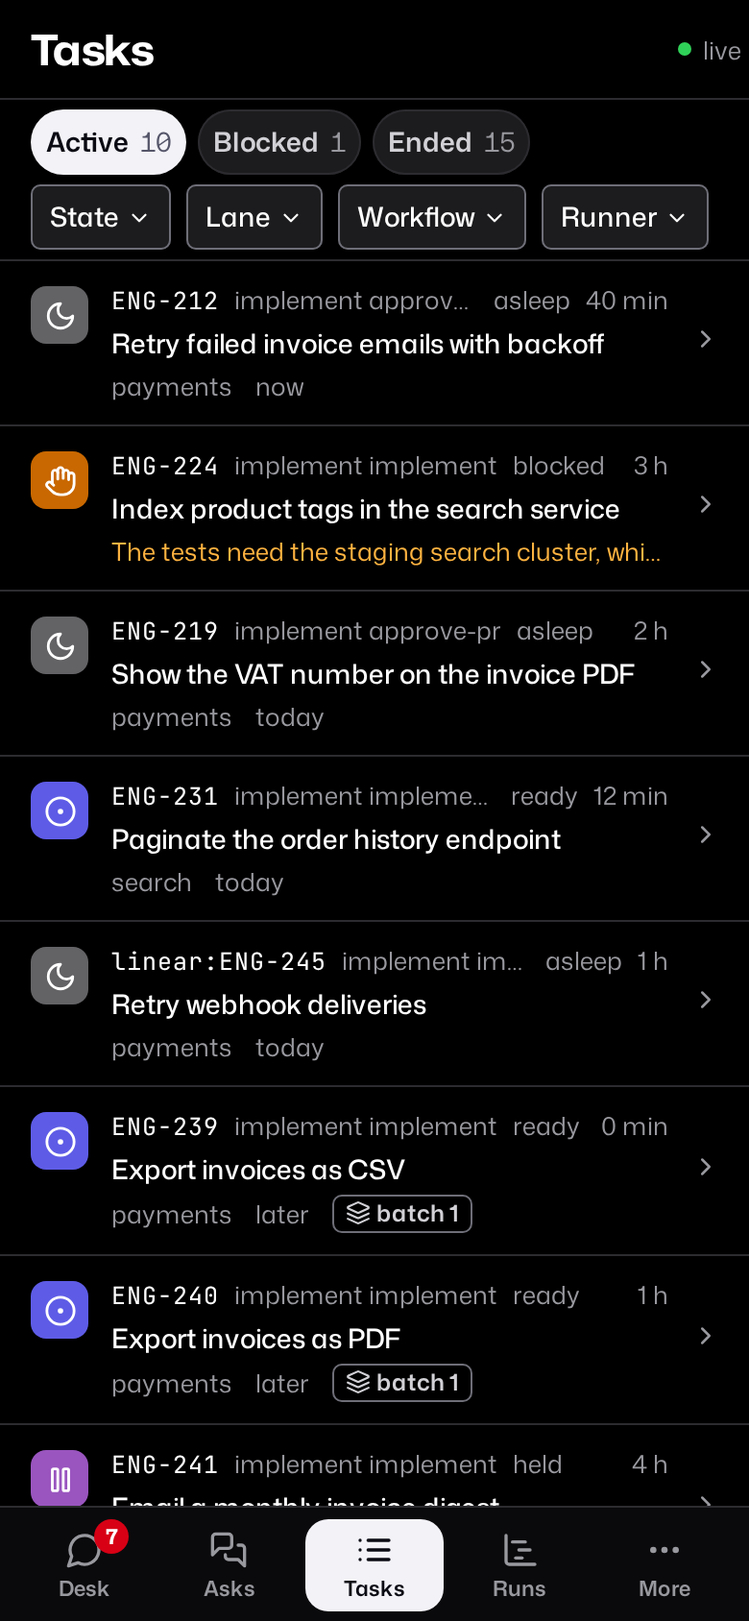
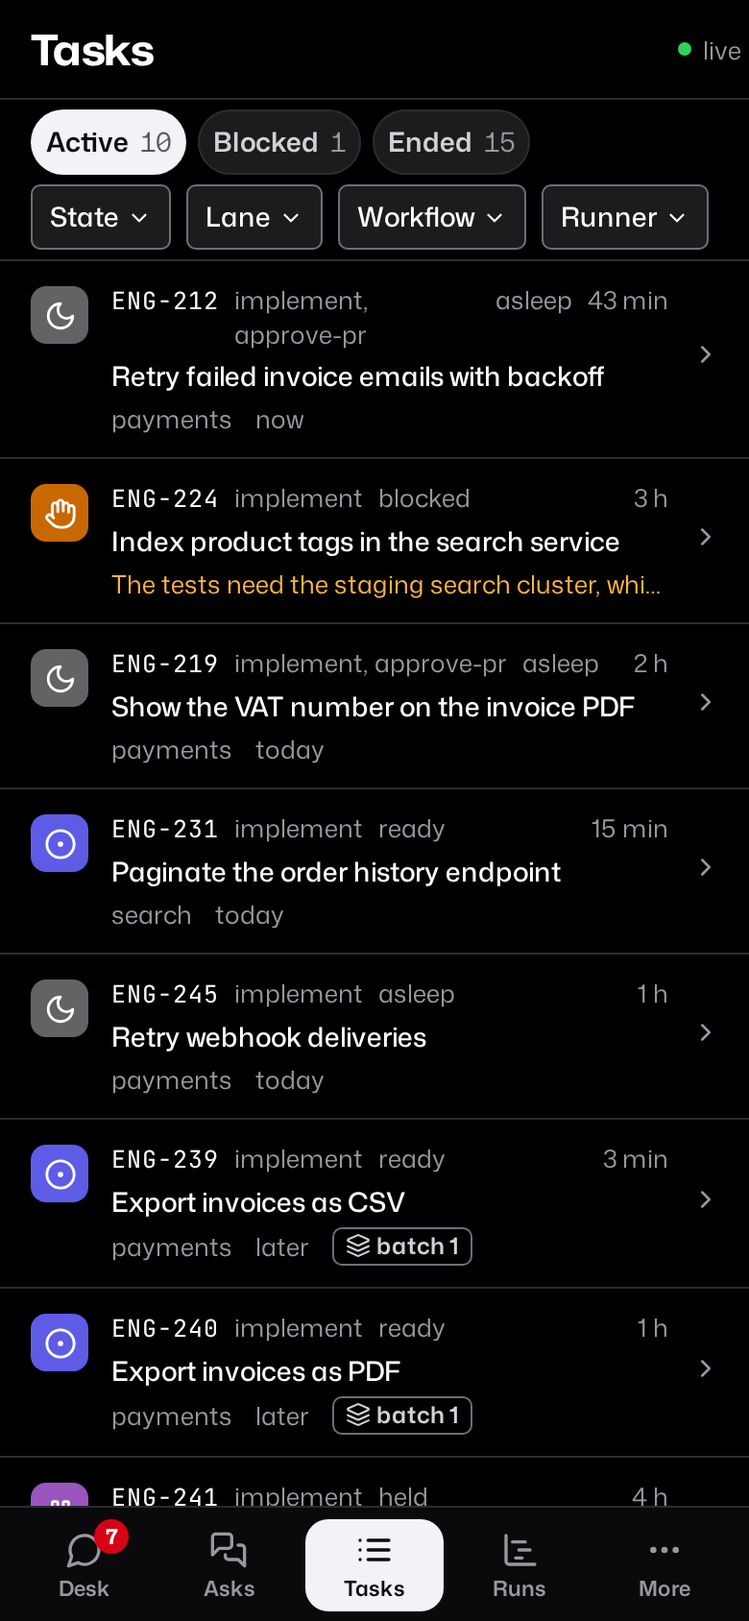
Keep the phone's ask header, capsule, rows and small links usable
On a phone, the ask detail's header now shrinks to the question over
its task key, step and revision once the options scroll away, as
DESIGN.md asks. Offline, the Answer capsule leaves the primary look and
reads "Read 7 asks, offline". Task rows name the step once when it is
the workflow's name and wrap a long step instead of cutting it. The ask
and batch context lines, task keys in rows and another runner's chevron
take a 44 px hit area on coarse pointers.

The design review's m3 "0 min ago" was already fixed on main.

diff --git a/crates/priory-core/web/app.js b/crates/priory-core/web/app.js
@@ -1,6 +1,6 @@
 // Priory's web view (DESIGN.md): the frame, the Desk and the Asks, with answering through the CLI's verbs.
 // Agent text is untrusted: every value goes through `html`, which escapes it.
-import { ARM_MS, ASK_VIEWS, answeredBy, askGroups, openAsksOf, routedMark, routedNote, runnerOf, seenAgo, sentNote, shownGroups, snoozeShortcut, snoozed, stillArmed, submitted, takesText, writeNote } from "./asks.js";
+import { ARM_MS, ASK_VIEWS, answeredBy, askGroups, openAsksOf, routedMark, routedNote, runnerOf, seenAgo, sentNote, shownGroups, shrunkHead, snoozeShortcut, snoozed, stillArmed, submitted, takesText, writeNote } from "./asks.js";
 import { SPLITS, attentionView, costTiles, dayBars, money, scoreTable, splitTable } from "./costs.js";
 import { addBody, addOutcome } from "./add.js";
 import { linked } from "./links.js";
@@ -11,8 +11,8 @@ import { KINDS, edgeStyle, historyRows, lockBadge, nodeShape, timeline, ungatedP
 import { emptyDetail, eventWords, handled, neverOwned, sinceWords, routeAction, unheardActs, unheardNote, unroutedNote } from "./inbox.js";
 import { editBody, issueName, laneLayout, momentWords, stages, successors } from "./batches.js";
 import { EARLIER_CAP, KEYS, keyboardSession, paintRows, sayLine, screenRows, screenWatch } from "./terminal.js";
-import { actionNote, batchParts, countWords, dueParts, memoryNote, memoryTag, mergeSince, nextLink, onRoom, progressView, rowAction, sectionInView, sinceGroups } from "./desk.js";
-import { TASK_VIEWS, elsewhere, filtered, olderPart, remoteActs, remoteId, remoteSent, taskFacets, taskLabel, taskViews, triageWords } from "./tasks.js";
+import { actionNote, batchParts, capsuleWords, countWords, dueParts, memoryNote, memoryTag, mergeSince, nextLink, onRoom, progressView, rowAction, sectionInView, sinceGroups } from "./desk.js";
+import { TASK_VIEWS, elsewhere, filtered, olderPart, remoteActs, remoteId, remoteSent, taskFacets, taskLabel, taskViews, triageWords, workStep } from "./tasks.js";
 import { RUN_FACETS, RUN_VIEWS, duration, runState, runViews, tokenText } from "./runs.js";
 import { PANELS, backTo, pageTitle } from "./pages.js";
 import { QUEUE_VIEWS, moveOptions, queueBands, waitReason } from "./queue.js";
@@ -579,7 +579,7 @@ function asleepRow(task) {
   const waits = (task.waits || []).map((wait) => `${wait.kind} ${wait.on}, ${age(wait.since)}`).join("; ");
   return html`<a class="row" href="/tasks/${task.id}">
     ${tile("asleep")}
-    <span class="l1"><span class="mono">${taskLabel(task.key)}</span><span>${task.workflow} ${task.step}</span><span>asleep</span>${prsTag(task)}<span class="age">${timeTag(task.since)}</span></span>
+    <span class="l1"><span class="mono">${taskLabel(task.key)}</span><span>${workStep(task)}</span><span>asleep</span>${prsTag(task)}<span class="age">${timeTag(task.since)}</span></span>
     <span class="l2 r">${task.title || task.lane || ""}</span>
     <span class="l3"><span>${waits ? `Waits on ${waits}` : "Waits on an ask"}</span></span>
     <span class="chev">${icon("chevron-right", "s15")}</span></a>`;
@@ -595,7 +595,7 @@ const prsTag = (task, id) => {
 function taskRow(task) {
   return html`<div class="row">
     ${tile(task.state)}
-    <span class="l1"><span class="mono">${taskLabel(task.key)}</span><span>${task.workflow} ${task.step}</span><span>${task.state}</span>${prsTag(task)}<span class="age">${timeTag(task.since)}</span></span>
+    <span class="l1"><span class="mono">${taskLabel(task.key)}</span><span>${workStep(task)}</span><span>${task.state}</span>${prsTag(task)}<span class="age">${timeTag(task.since)}</span></span>
     <span class="l2 r ${task.reason ? `t-${role(task.state)}` : ""}">${autolinked(task.reason || task.tldr || task.title || task.lane || "", task.repo)}</span></div>`;
 }
 
@@ -855,7 +855,8 @@ const addButton = (kind) => html`<button class="${kind}" data-action="add-open" 
 // On a phone the Add button sits beside the capsule, or alone where the capsule hides.
 function capsule(model) {
   const n = model.open.length;
-  const answer = n && deskView() === "needs" ? html`<a class="capsule" href="/asks/${model.first.id}">${icon("ask", "s20")}Answer ${n} ${n === 1 ? "ask" : "asks"}</a>` : "";
+  const words = capsuleWords(n, Boolean(state.failed));
+  const answer = n && deskView() === "needs" ? html`<a class="capsule ${words.off ? "off" : ""}" href="/asks/${model.first.id}">${icon(words.icon, "s20")}${words.text}</a>` : "";
   return html`<div class="fade"></div><div class="dock">${answer}${addButton("fab")}</div>`;
 }
 
@@ -965,7 +966,7 @@ function taskListRow(task) {
   if (elsewhere(task, ago)) return remoteListRow(task);
   const line3 = reasonShown(task) ? html`<span class="t-${role(task.state)}">${task.reason}</span>${batchTag(task)}` : html`<span>${task.lane || ""}</span><span>${task.band || ""}</span>${batchTag(task)}`;
   return html`<div class="row" data-href="/tasks/${task.id}">${tile(task.state)}
-    <span class="l1"><a class="mono" href="/tasks/${task.id}" title="task ${task.id}">${taskLabel(task.key)}</a><span>${task.workflow} ${task.step}</span><span>${task.state}</span>${prsTag(task)}<span class="age">${timeTag(task.since)}</span></span>
+    <span class="l1"><a class="mono" href="/tasks/${task.id}" title="task ${task.id}">${taskLabel(task.key)}</a><span>${workStep(task)}</span><span>${task.state}</span>${prsTag(task)}<span class="age">${timeTag(task.since)}</span></span>
     <span class="l2 r">${task.title || task.tldr || ""}</span><span class="l3">${line3}</span><span class="chev">${icon("chevron-right", "s15")}</span></div>`;
 }
 
@@ -1111,8 +1112,9 @@ function askDetail(id, wide) {
   const nav = (to, label, name) => (to
     ? html`<a class="iconbtn" href="/asks/${to.id}" aria-label="${label}">${icon(name, "s20")}</a>`
     : html`<span class="iconbtn" aria-disabled="true" aria-label="${label}">${icon(name, "s20")}</span>`);
+  const shrunk = shrunkHead(ask);
   const header = html`<div class="ahead">
-    ${wide ? html`<span class="ctx">${tile("ask", "sm")}<span>ask <span class="mono">#${ask.id}</span></span><span>revision ${ask.revision}</span><span>${timeTag(ask.since)}</span></span>` : html`<a class="back" href="${back[0]}">${icon("chevron-left", "s22")}${back[1]}</a>`}
+    ${wide ? html`<span class="ctx">${tile("ask", "sm")}<span>ask <span class="mono">#${ask.id}</span></span><span>revision ${ask.revision}</span><span>${timeTag(ask.since)}</span></span>` : html`<a class="back" href="${back[0]}" aria-label="${back[1]}">${icon("chevron-left", "s22")}<span>${back[1]}</span></a><span class="aq" aria-hidden="true"><b>${shrunk.question}</b><small>${shrunk.place}</small></span>`}
     ${at >= 0 ? html`<span class="pos num">${at + 1}<span>/${open.length}</span></span>` : html`<span class="sp"></span>`}
     ${nav(open[at - 1], "Previous ask", "chevron-up")}${nav(open[at + 1], "Next ask", "chevron-down")}
     ${wide ? html`<a class="iconbtn" href="${back[0]}" aria-label="Close">${icon("x", "s20")}</a>` : ""}</div>`;
@@ -1478,7 +1480,7 @@ function taskPage(id) {
     <textarea id="say" name="text" rows="2" placeholder="Say to the agent">${state.sayDrafts.get(task.id) || ""}</textarea><button class="btn primary" ${said}>Say</button></form>`;
   const sections = taskSections(task).map(([, , section]) => section);
   return html`${back}<div class="scroll"><div class="ask task">
-    <p class="ctx">${tile(task.state, "sm")}<span class="mono">${taskLabel(task.key)}</span><span>${task.state}</span><span>${task.workflow} ${task.step}</span><span>${task.lane || ""}</span><span>${task.band || ""}</span>${task.batch == null ? "" : html`<a href="/batches/${task.batch}">batch ${task.batch}</a>`}</p>
+    <p class="ctx">${tile(task.state, "sm")}<span class="mono">${taskLabel(task.key)}</span><span>${task.state}</span><span>${workStep(task)}</span><span>${task.lane || ""}</span><span>${task.band || ""}</span>${task.batch == null ? "" : html`<a href="/batches/${task.batch}">batch ${task.batch}</a>`}</p>
     <h1 class="question">${autolinked(task.tldr || task.brief?.title || task.brief?.request?.split("\n")[0] || taskLabel(task.key), task.repo)}</h1>
     ${task.reason ? html`<p class="text t-${role(task.state)}">${autolinked(task.reason, task.repo)}</p>` : ""}
     ${taskAsks(task)}${taskActs(task.id, task.state)}${say}</div>${sections}${terminalSection(task)}</div>`;
@@ -2389,7 +2391,7 @@ function addedTask() {
   return html`<div class="added" role="status">
     <p class="line">Added. The task waits in the queue for its turn.</p>
     <div class="row">${tile(task.state)}
-      <span class="l1"><span class="mono">${taskLabel(task.key)}</span><span>${[task.workflow, task.step !== task.workflow && task.step].filter(Boolean).join(", ")}</span><span class="age">${task.state}</span></span>
+      <span class="l1"><span class="mono">${taskLabel(task.key)}</span><span>${workStep(task)}</span><span class="age">${task.state}</span></span>
       <span class="l2">${task.brief?.request || task.brief?.title || (id === null ? "No task took this key yet. It shows on the Desk once one does." : "")}</span>
       <span class="l3">${[task.band, task.lane].filter(Boolean).join(", ")}</span></div>
     <div class="acts"><button class="btn secondary" data-action="add-another">Add another</button><button class="btn primary" data-action="add-done">Close</button></div></div>`;
@@ -3040,7 +3042,11 @@ function watchSections(app) {
     const options = scroller.querySelector(".opts");
     const bar = app.querySelector(".abar");
     if (!options || !bar) continue;
-    track(new IntersectionObserver(([entry]) => { bar.hidden = entry.isIntersecting; }, { root: scroller })).observe(options);
+    const head = app.querySelector(".ahead");
+    track(new IntersectionObserver(([entry]) => {
+      bar.hidden = entry.isIntersecting;
+      head?.classList.toggle("shrunk", !entry.isIntersecting);
+    }, { root: scroller })).observe(options);
   }
 }
 

diff --git a/crates/priory-core/web/app.css b/crates/priory-core/web/app.css
@@ -114,11 +114,13 @@ a.facet[aria-current="true"] { background: var(--action-soft); color: var(--acti
 .row:active { background: var(--raised); }
 .row[aria-current="true"] { background: var(--action-soft); box-shadow: inset 3px 0 var(--action); }
 .row .tile { grid-row: 1 / 4; margin-top: 2px; }
-.row .l1 { display: flex; gap: 8px; align-items: baseline; font: 400 var(--type-caption) var(--font-ui); color: var(--text-3); min-width: 0; }
+.row .l1 { display: flex; gap: 2px 8px; align-items: baseline; font: 400 var(--type-caption) var(--font-ui); color: var(--text-3); min-width: 0; }
 .row .l1 .mono { color: var(--text); }
 .row .l1 .tag.routed { min-width: 0; overflow: hidden; text-overflow: ellipsis; }
 .row .l1 .tag.runner, .row .l1:has(.tag.runner) > .mono { flex: none; }
-.row .l1:has(.tag.runner) > span:nth-child(2) { min-width: 5ch; overflow: hidden; text-overflow: ellipsis; white-space: nowrap; }
+/* A step never truncates: its words wrap in place, and a row with tags wraps its tags first. */
+.row .l1:has(.tag) { flex-wrap: wrap; }
+.row .l1:has(.tag) > span:nth-child(2) { flex: none; }
 .row .l1 .age { margin-left: auto; white-space: nowrap; }
 .row .l2 { grid-column: 2; font: 500 var(--type-body) var(--font-ui); display: -webkit-box; -webkit-line-clamp: 2; -webkit-box-orient: vertical; overflow: hidden; overflow-wrap: anywhere; }
 .row .l2.r { font-size: 14px; }
@@ -155,6 +157,7 @@ a.facet[aria-current="true"] { background: var(--action-soft); color: var(--acti
 
 /* Answer capsule */
 .capsule { position: absolute; left: var(--gutter); right: var(--gutter); bottom: var(--capsule-gap); height: var(--capsule); border-radius: var(--radius-full); background: var(--action); color: var(--on-action); display: flex; align-items: center; justify-content: center; gap: 8px; font: 600 var(--type-option) var(--font-ui); box-shadow: var(--shadow-float); z-index: 2; }
+.capsule.off { background: var(--surface); color: var(--warn-text); box-shadow: var(--shadow-float), inset 0 0 0 1px var(--control-line); }
 .fade { position: absolute; left: 0; right: 0; bottom: 0; height: var(--desk-end); background: linear-gradient(to bottom, transparent, var(--bar) 45%); z-index: 1; pointer-events: none; }
 
 /* Ask: question, recommendation, options */
@@ -178,6 +181,14 @@ a.facet[aria-current="true"] { background: var(--action-soft); color: var(--acti
 .pos span { color: var(--text-3); font-weight: 500; }
 .ahead .iconbtn { width: 40px; color: var(--text-2); }
 .ahead .iconbtn[aria-disabled="true"] { color: var(--text-3); opacity: 0.5; }
+/* Once the options scroll away on a phone, the header shrinks to the question over its place. */
+.ahead .aq { display: none; flex: 1; min-width: 0; flex-direction: column; gap: 1px; }
+.ahead .aq b, .ahead .aq small { overflow: hidden; text-overflow: ellipsis; white-space: nowrap; }
+.ahead .aq b { font: 600 var(--type-body) var(--font-ui); }
+.ahead .aq small { font: 400 var(--type-caption) var(--font-ui); color: var(--text-3); }
+.ahead.shrunk .aq { display: flex; }
+.ahead.shrunk .back { padding-right: 4px; }
+.ahead.shrunk .back span, .ahead.shrunk .pos { display: none; }
 .ask { display: flex; flex-direction: column; gap: 14px; padding: 4px var(--gutter) 16px; }
 .taskasks { display: grid; gap: 8px; }
 .taskasks li { display: grid; grid-template-columns: auto minmax(0, 1fr) auto; gap: 10px; align-items: center; padding: 10px 12px; border: 1px solid var(--line); border-radius: var(--radius-md); font: 500 var(--type-small) var(--font-ui); overflow-wrap: anywhere; }
@@ -376,8 +387,8 @@ textarea { font: 400 16px/22px var(--font-ui); color: var(--text); background: v
 .opt[aria-disabled="true"]:not(.rec-opt):not(.chosen), .abar .btn.secondary[aria-disabled="true"] { color: var(--text-3); }
 .medium.no-drawer, .compact.no-drawer { display: flex; flex-direction: column; }
 @media (pointer: coarse) {
-  .views a, .jump a, .facet > summary, a.facet { position: relative; }
-  .views a::after, .jump a::after, .facet > summary::after, a.facet::after {
+  .views a, .jump a, .facet > summary, a.facet, a.ctx, .ctx a, .l1 a.mono, .remote .chev { position: relative; }
+  .views a::after, .jump a::after, .facet > summary::after, a.facet::after, a.ctx::after, .ctx a::after, .l1 a.mono::after, .remote .chev::after {
     content: ""; position: absolute;
     inset: calc(50% - var(--control) / 2) min(0px, calc(50% - var(--control) / 2));
   }
@@ -414,7 +425,7 @@ textarea { font: 400 16px/22px var(--font-ui); color: var(--text); background: v
 .row .l1 a.mono { color: var(--text); text-decoration: underline; text-underline-offset: 2px; }
 .row .acts-note { grid-column: 2; }
 .row.remote, .tbl tr.remote { cursor: pointer; }
-.remote .chev { background: none; border: 0; padding: 0; color: var(--text-3); cursor: pointer; }
+.remote .chev { min-width: 24px; min-height: 24px; display: inline-grid; place-items: center; background: none; border: 0; padding: 0; color: var(--text-3); cursor: pointer; }
 .tbl tr.remote .chev { vertical-align: -3px; }
 .row.remote .writeform { grid-column: 2; padding-left: 0; margin-top: var(--space-1); }
 .tbl tr.remote-acts td { border-top: 0; height: auto; padding-bottom: var(--space-3); white-space: normal; overflow: visible; cursor: default; }
@@ -629,7 +640,7 @@ textarea { font: 400 16px/22px var(--font-ui); color: var(--text); background: v
 .row .l1 a.mono { text-decoration: none; }
 .tbl td.mono a { color: inherit; text-decoration: none; }
 .row[data-href] .l1 > * { white-space: nowrap; flex: none; }
-.row[data-href] .l1 > span:nth-child(2) { flex: 0 1 auto; min-width: 0; overflow: hidden; text-overflow: ellipsis; }
+.row[data-href] .l1 > span:nth-child(2) { flex: 0 1 auto; min-width: 0; white-space: normal; }
 .row[data-href] .l3 > span { overflow: hidden; text-overflow: ellipsis; }
 .row .l3 .tag .ico, .tbl .tag .ico { margin-right: 3px; vertical-align: -2px; }
 .tbl .t3 { color: var(--text-3); }

diff --git a/crates/priory-core/web/asks.test.js b/crates/priory-core/web/asks.test.js
@@ -1,6 +1,6 @@
 import { test } from "node:test";
 import assert from "node:assert/strict";
-import { ASK_VIEWS, answeredBy, askGroups, routedMark, routedNote, runnerOf, submitted, seenAgo, sentNote, shownGroups, snoozeShortcut, stillArmed, takesText, openAsksOf, writeNote } from "./asks.js";
+import { ASK_VIEWS, answeredBy, askGroups, routedMark, routedNote, runnerOf, submitted, seenAgo, sentNote, shownGroups, snoozeShortcut, stillArmed, takesText, openAsksOf, writeNote, shrunkHead } from "./asks.js";
 
 const now = Date.parse("2026-11-20T12:00:00Z");
 const ask = (id, fields) => ({ id, state: "open", snoozed_until: null, ...fields });
@@ -163,4 +163,9 @@ test("a task page lists its task's open asks, snoozed ones too, oldest first", (
   ];
   assert.deepEqual(openAsksOf(asks, 7).map((ask) => ask.id), [3, 4]);
   assert.deepEqual(openAsksOf(asks, 9), []);
+});
+
+test("the shrunk header names the question over the task key, step and revision", () => {
+  assert.deepEqual(shrunkHead({ key: "linear:ENG-212", step: "approve-pr", revision: 2, title: "Open the pull request", question: "Open the pull request for ENG-212?" }), { question: "Open the pull request for ENG-212?", place: "ENG-212, approve-pr, revision 2" });
+  assert.deepEqual(shrunkHead({ key: null, step: "deploy", revision: 1, title: "Deploy", question: null }), { question: "Deploy", place: "deploy, revision 1" });
 });

diff --git a/crates/priory-core/web/desk.test.js b/crates/priory-core/web/desk.test.js
@@ -1,6 +1,6 @@
 import { test } from "node:test";
 import assert from "node:assert/strict";
-import { nextLink, onRoom, sinceGroups, mergeSince, progressView, sectionInView, dueText, rowAction, actionNote, batchParts, countWords, memoryNote, memoryTag } from "./desk.js";
+import { nextLink, onRoom, sinceGroups, mergeSince, progressView, sectionInView, dueText, rowAction, actionNote, batchParts, countWords, memoryNote, memoryTag, capsuleWords } from "./desk.js";
 
 const why = "work stopped and waits on a person";
 
@@ -151,4 +151,10 @@ test("the Desk's count line names every item Needs me counts besides the asks", 
   assert.equal(countWords({ oldest: null, stopped: 0, todos: 2, reports: 1, other: 0 }), "Also 2 to-dos and 1 report.");
   assert.equal(countWords({ oldest: null, stopped: 2, todos: 1, reports: 3, other: 1 }), "Also 2 stopped, 1 to-do, 3 reports and 1 waiting.");
   assert.equal(countWords({ ...none, oldest: null }), "");
+});
+
+test("the capsule answers while live, and only reads the asks while offline", () => {
+  assert.deepEqual(capsuleWords(7, false), { text: "Answer 7 asks", icon: "ask", off: false });
+  assert.deepEqual(capsuleWords(1, false), { text: "Answer 1 ask", icon: "ask", off: false });
+  assert.deepEqual(capsuleWords(7, true), { text: "Read 7 asks, offline", icon: "unplug", off: true });
 });

diff --git a/crates/priory-core/web/tasks.test.js b/crates/priory-core/web/tasks.test.js
@@ -1,6 +1,6 @@
 import { test } from "node:test";
 import assert from "node:assert/strict";
-import { TASK_FACETS, TASK_VIEWS, elsewhere, filtered, olderPart, remoteActs, remoteId, remoteSent, taskFacets, taskLabel, taskViews, triageWords } from "./tasks.js";
+import { TASK_FACETS, TASK_VIEWS, elsewhere, filtered, olderPart, remoteActs, remoteId, remoteSent, taskFacets, taskLabel, taskViews, triageWords, workStep } from "./tasks.js";
 
 // `/api/tasks` as the server sends it: in start order, ended tasks in it too.
 const tasks = [
@@ -93,4 +93,11 @@ test("a task is named by its key without its source", () => {
   assert.equal(taskLabel("cli:PRI-55"), "PRI-55");
   assert.equal(taskLabel("batch:2026-11-21-1"), "batch:2026-11-21-1");
   assert.equal(taskLabel(null), "");
+});
+
+test("a row names the step alone when it is the workflow's own name", () => {
+  assert.equal(workStep({ workflow: "implement", step: "implement" }), "implement");
+  assert.equal(workStep({ workflow: "implement", step: "approve-pr" }), "implement, approve-pr");
+  assert.equal(workStep({ workflow: "implement", step: null }), "implement");
+  assert.equal(workStep({ workflow: null, step: null }), "");
 });

diff --git a/crates/priory-core/web/asks.js b/crates/priory-core/web/asks.js
@@ -1,3 +1,5 @@
+import { taskLabel } from "./tasks.js";
+
 export const ASK_VIEWS = ["open", "snoozed", "answered", "all"];
 
 /** The groups of `askGroups` a saved view lists, in order. @param {string} view */
@@ -102,3 +104,9 @@ export function writeNote(status, body, ago, ask) {
   if (status === 504 || status === 0) return "The daemon may have applied this but did not confirm it. Check the ask's state before you send again.";
   return `Could not send: ${body?.error || `the server answered ${status}`}.`;
 }
+
+/** The ask detail's header once its options scroll away: the question, over the task key, step and revision. */
+export const shrunkHead = (ask) => ({
+  question: ask.question || ask.title,
+  place: [taskLabel(ask.key), ask.step, `revision ${ask.revision}`].filter(Boolean).join(", "),
+});

diff --git a/crates/priory-core/web/desk.js b/crates/priory-core/web/desk.js
@@ -140,3 +140,9 @@ export function countWords({ oldest, stopped, todos, reports, other }) {
   const also = rest.length > 1 ? `Also ${rest.slice(0, -1).join(", ")} and ${rest.at(-1)}.` : rest.length ? `Also ${rest[0]}.` : "";
   return [oldest && `Oldest waits ${oldest}.`, also].filter(Boolean).join(" ");
 }
+
+/** The Answer capsule's words for `n` open asks: offline it leaves the primary look and only opens the asks to read. */
+export function capsuleWords(n, offline) {
+  const asks = `${n} ${n === 1 ? "ask" : "asks"}`;
+  return offline ? { text: `Read ${asks}, offline`, icon: "unplug", off: true } : { text: `Answer ${asks}`, icon: "ask", off: false };
+}

diff --git a/adapters/herdr/mods/priory-runs/tasks.js b/adapters/herdr/mods/priory-runs/tasks.js
@@ -90,3 +90,6 @@ const TRIAGE_WORDS = { "nothing-to-do": "nothing to do", "persons-call": "your c
 
 /** A feedback item's class as the task page words it. */
 export const triageWords = (triage) => TRIAGE_WORDS[triage] || triage;
+
+/** A task's workflow and step as a row shows them: the step once when it is the workflow's name. @param {any} task */
+export const workStep = (task) => [task.workflow, task.step !== task.workflow && task.step].filter(Boolean).join(", ");

diff --git a/adapters/herdr/mods/priory-tasks/view.js b/adapters/herdr/mods/priory-tasks/view.js
@@ -90,3 +90,6 @@ const TRIAGE_WORDS = { "nothing-to-do": "nothing to do", "persons-call": "your c
 
 /** A feedback item's class as the task page words it. */
 export const triageWords = (triage) => TRIAGE_WORDS[triage] || triage;
+
+/** A task's workflow and step as a row shows them: the step once when it is the workflow's name. @param {any} task */
+export const workStep = (task) => [task.workflow, task.step !== task.workflow && task.step].filter(Boolean).join(", ");

diff --git a/crates/priory-core/web/tasks.js b/crates/priory-core/web/tasks.js
@@ -90,3 +90,6 @@ const TRIAGE_WORDS = { "nothing-to-do": "nothing to do", "persons-call": "your c
 
 /** A feedback item's class as the task page words it. */
 export const triageWords = (triage) => TRIAGE_WORDS[triage] || triage;
+
+/** A task's workflow and step as a row shows them: the step once when it is the workflow's name. @param {any} task */
+export const workStep = (task) => [task.workflow, task.step !== task.workflow && task.step].filter(Boolean).join(", ");

diff --git a/DESIGN.md b/DESIGN.md
@@ -447,6 +447,9 @@ selected row.
 
 - **The desk list ends with bottom padding of `--desk-end`**: the capsule's height plus its gap
   above and below, so the capsule never covers the last row when the list is scrolled to the end.
+- Offline, the capsule leaves the primary look: `--surface` with a `--control-line` edge, `unplug`
+  and `--warn-text`, reading "Read 3 asks, offline". It still opens the ask, whose options stay
+  disabled until the view reconnects.
 - The capsule hides when no ask is open. An empty desk shows: "No open asks. Agents ask here when
   they need you."
 - A round [Add](#add) button, `--capsule` wide and tall, sits at the right of the capsule with
@@ -678,7 +681,9 @@ did not show. Until then the options are disabled under a `layers` note, "Readin
 
 **Answer while reading.** On a phone, once the options scroll out of view:
 
-- The header shrinks to one line: the question, clamped, over the task key, step and revision.
+- The header shrinks to one line: the question, clamped, over the task key, step and revision,
+  such as "ENG-212, approve-pr, revision 1". The back link keeps its chevron and drops its word,
+  and the position leaves. Scrolling the options back into view restores the header.
 - The section chips stick under the header.
 - A **sticky answer bar** on `--bar`, `--answer-bar` tall, holds two buttons with
   `--radius-card`: a secondary "3 options" with `chevron-up`, and the recommended option as a
@@ -850,6 +855,10 @@ open Priory window when there is one.
   title. Line 3 is lane, band and the batch tag; a `blocked`, `held`, `failed` or `dropped` row
   shows its reason there instead of lane and band, in the role's text color, and keeps the batch tag. A run row's line 2 is its agent and
   model, line 3 its run id, outcome, duration and tokens.
+- **The step never truncates.** Line 1 names the step once when it equals the workflow's name,
+  "implement" rather than "implement implement", and "implement, approve-pr" otherwise. A long step
+  wraps its own words. A row with tags on line 1, such as a runner or Command, wraps the tags and
+  the age to a second line before it cuts the step.
 - **Wide**: a table, `--row-wide` (38 px) at least, with columns for state, key, title, workflow
   and step, lane, band and age (tasks), or state, run id, key, step, agent and model, outcome,
   duration, tokens and started (runs). A task's reason sits under its title. Numbers are right
@@ -1279,6 +1288,9 @@ run.
 
 - Touch targets are at least 44 by 44 px on coarse pointers and 24 by 24 px everywhere, with
   8 px between neighbours.
+- A link drawn smaller than that, such as a task key in a row, an ask's or batch's context line or
+  another runner's chevron, keeps its look and takes a transparent hit area of `--control` height
+  on coarse pointers. A chevron button is 24 by 24 px at least everywhere.
 - Put the primary action of a screen in its bottom third on compact screens.
 - Every gesture has a visible button that does the same thing.
 - Allowed gestures: horizontal swipe between asks in an ask's detail and between tabs; pinch and

diff --git a/docs/reference/views.md b/docs/reference/views.md
@@ -42,7 +42,7 @@ Open and waits in Snoozed. On a phone, once the options scroll out of view, the 
 A batch's go ask shows the plan as a lane graph, and each entry's menu moves or drops it before you
 answer. The desk's batch row opens the batch page, with each entry's state and when it starts.
 
-![The same ask scrolled to its pull request, checks and inbox events in dark mode, with the answer bar fixed at the bottom: "2 options" and "open, Recommended".](../images/web-view-answer-bar-390-dark.png)
+![The same ask scrolled to its pull request, checks and inbox events in dark mode. The header has shrunk to the question over "ENG-212, approve-pr, revision 1", and the answer bar is fixed at the bottom: "2 options" and "open, Recommended".](../images/web-view-answer-bar-390-dark.png)
 
 The web view's Tasks panel lists every task, with the saved views Active, Blocked and Ended and
 filters by state, lane and workflow; each row opens the task's page, and a batch's entries link to
